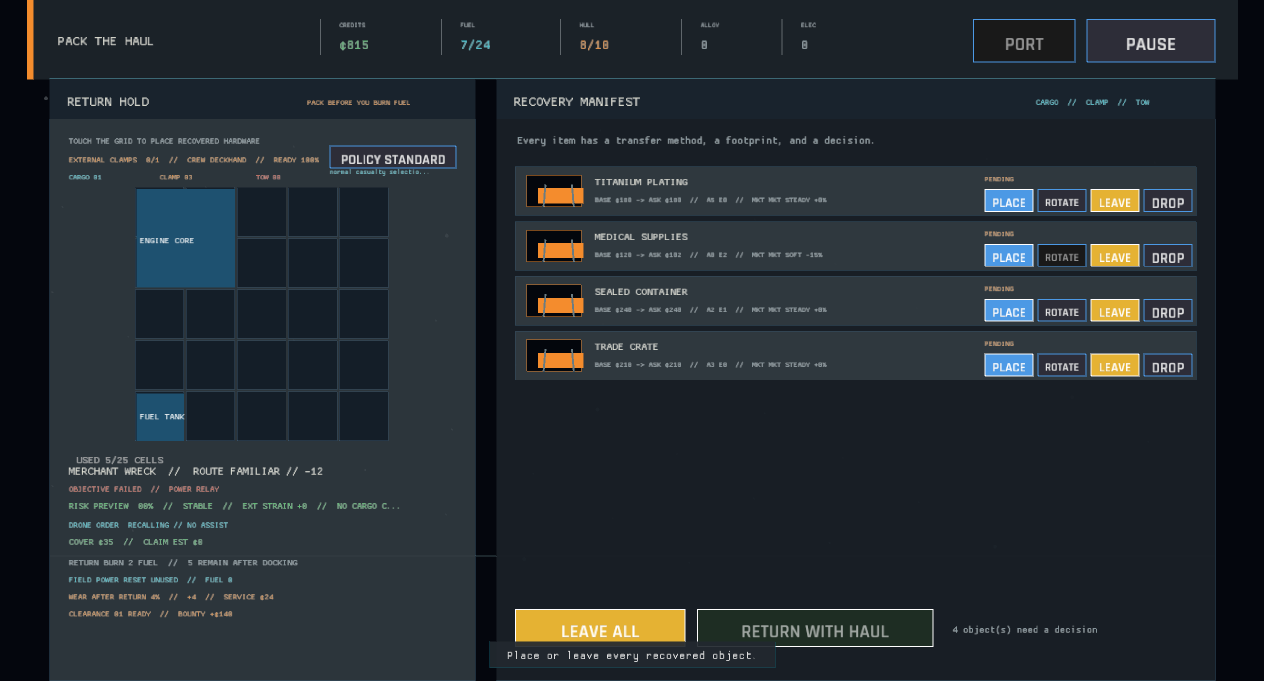
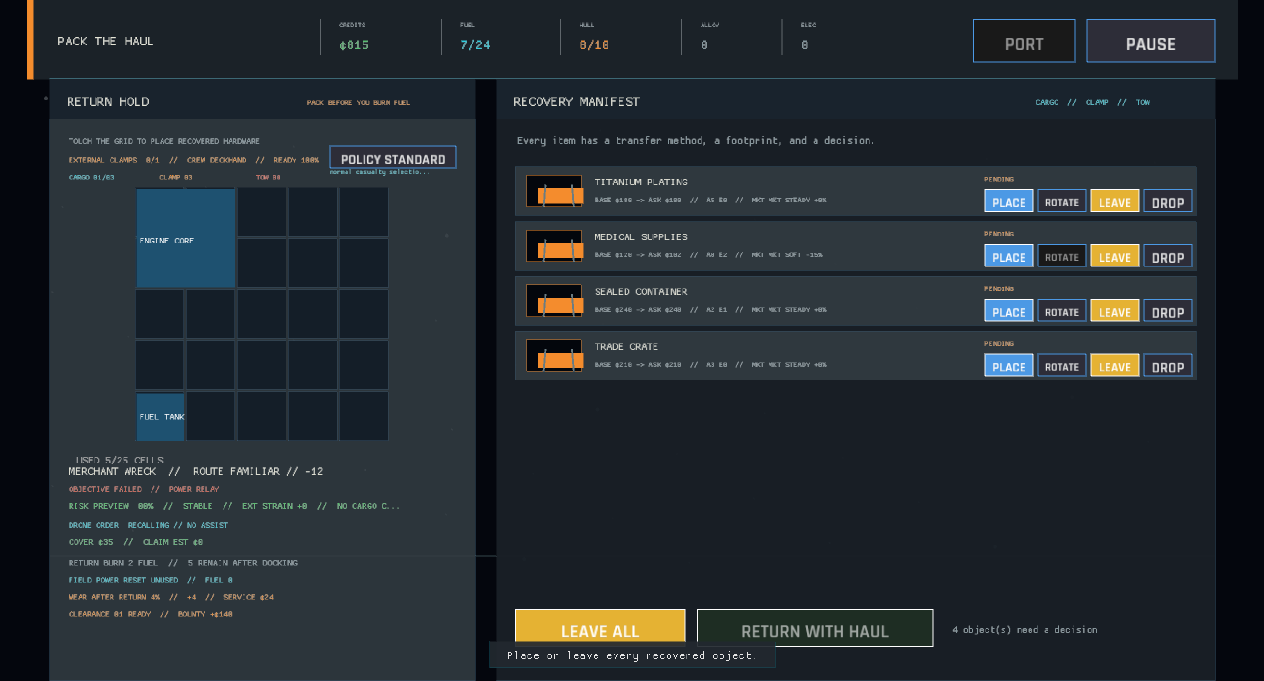
Count every berth before the return burn (cargo hold capacity readout, GDD progression, milestone 46)
Packing now shows internal cargo as used berths over the ship's live capacity, with overflow using the warning color. The readout covers the new expansion system at the moment the captain decides what to bring home.

diff --git a/src/ui/salvage_items.rs b/src/ui/salvage_items.rs
@@ -73,11 +73,15 @@ fn draw_hold_panel(ctx: &UiContext<'_>, actions: &mut Vec<UiAction>) {
     );
     let (cargo_count, clamp_count, tow_count) = transfer_counts(ctx);
     draw_text(
-        format!("CARGO {:02}", cargo_count),
+        packing_cargo_capacity_label(cargo_count, ctx.session.internal_cargo_capacity()),
         hold.x + 20.0,
         hold.y + 106.0,
         10.0,
-        visual_theme::cyan(),
+        if cargo_count as i32 > ctx.session.internal_cargo_capacity() {
+            visual_theme::warning()
+        } else {
+            visual_theme::cyan()
+        },
     );
     draw_text(
         format!("CLAMP {:02}", clamp_count),
@@ -309,6 +313,10 @@ fn packing_crew_label(
         crew_role.short_label(),
         readiness
     )
+}
+
+fn packing_cargo_capacity_label(cargo_count: usize, capacity: i32) -> String {
+    format!("CARGO {:02}/{:02}", cargo_count, capacity.max(0))
 }
 
 fn return_policy_button_label(policy: crate::state::ReturnPolicy) -> String {

diff --git a/src/ui/salvage_items/tests.rs b/src/ui/salvage_items/tests.rs
@@ -69,6 +69,12 @@ fn packing_hold_names_the_active_crew_beside_clamp_capacity() {
 }
 
 #[test]
+fn packing_hold_names_internal_cargo_berths() {
+    assert_eq!(packing_cargo_capacity_label(2, 3), "CARGO 02/03");
+    assert_eq!(packing_cargo_capacity_label(5, 7), "CARGO 05/07");
+}
+
+#[test]
 fn packing_hold_names_the_active_return_policy() {
     assert_eq!(
         return_policy_button_label(crate::state::ReturnPolicy::ProtectObjective),
